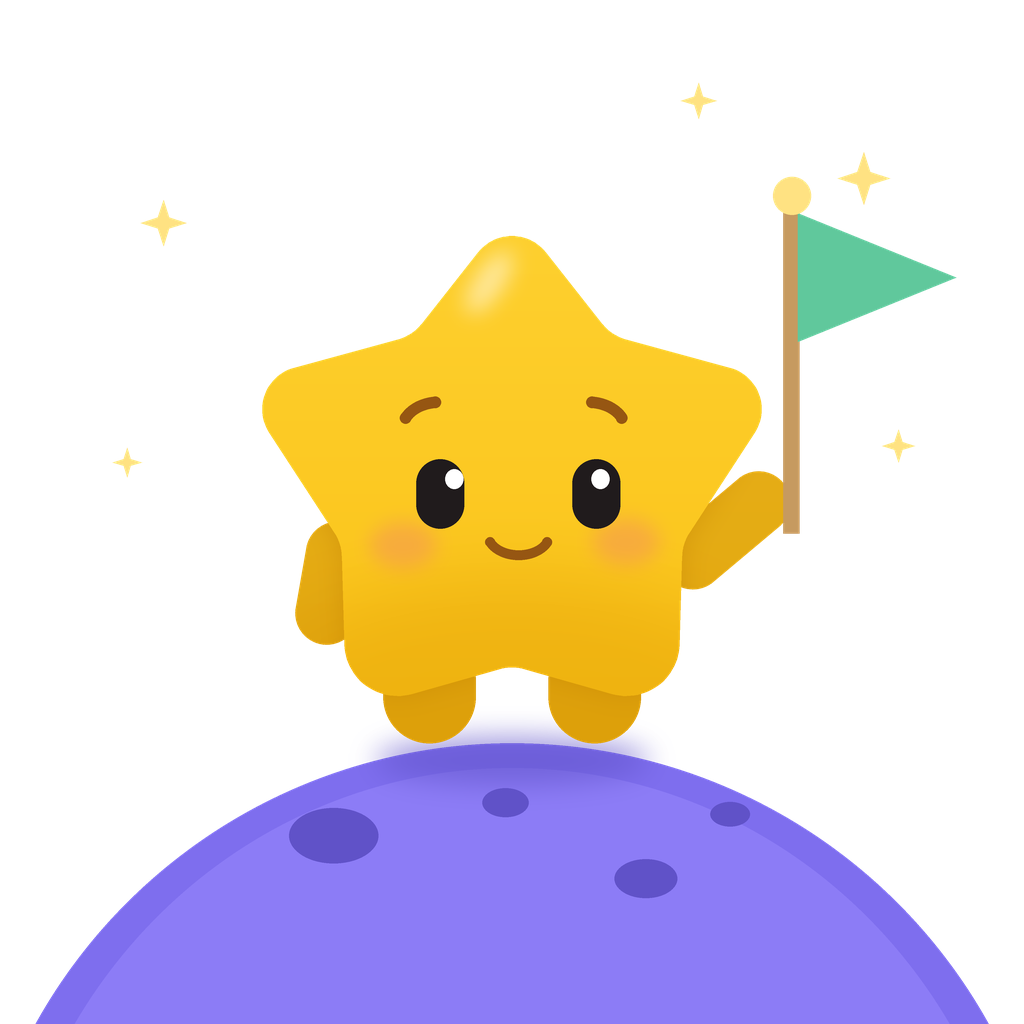
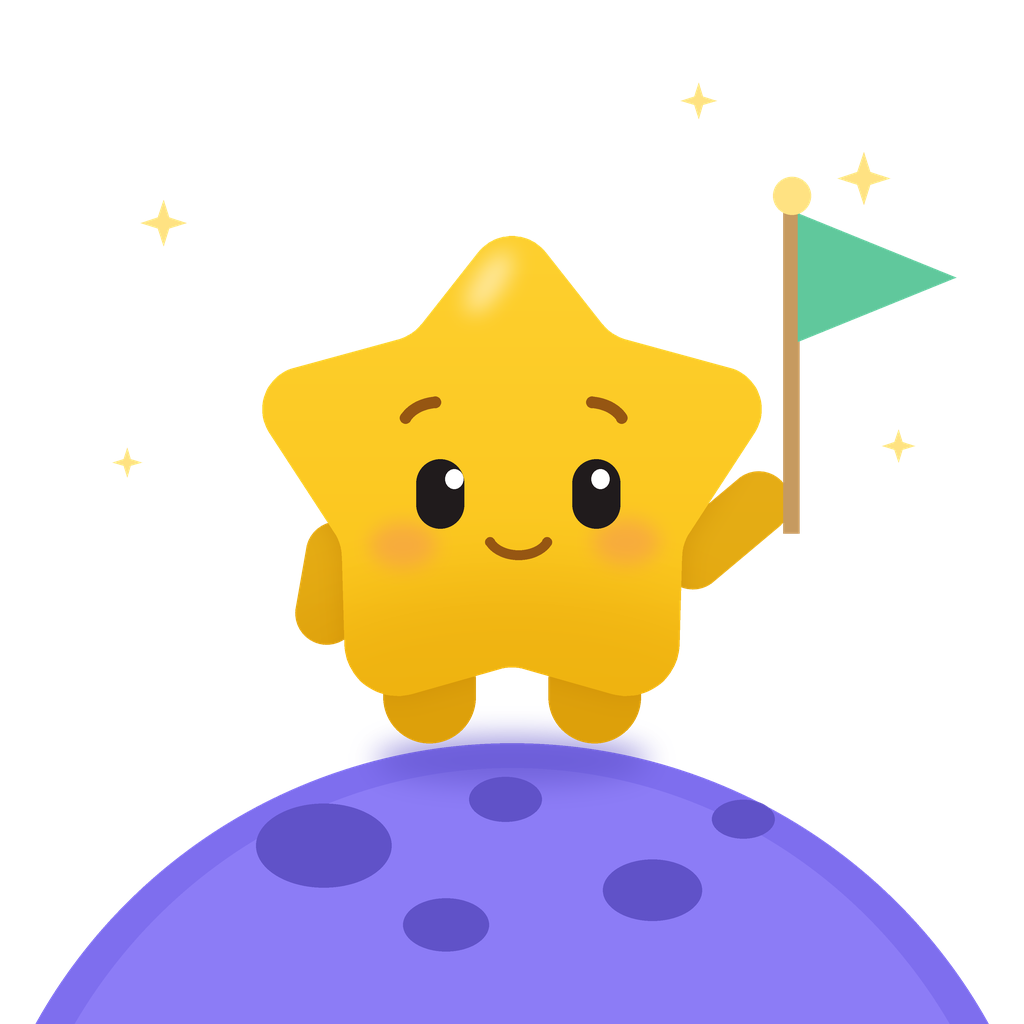
Close the gaps in the headphones, nightcap and planet
The headphone band stopped short of the cups, leaving a visible break;
it now runs from cup center to cup center. The nightcap's left edge
passed to the right of the top ray's tip, so a yellow wedge showed
behind it — the cone is straightened and its base widened. Planet
craters are larger and one more was added.

Claude-Session: https://claude.ai/code/session_015M4W5mwAC7ThVprora4HqH

diff --git a/scenes.py b/scenes.py
@@ -97,8 +97,8 @@ def planet(img):
     d.ellipse(sbox([cx - r, cy - r, cx + r, cy + r]), fill=PLANET + (255,))
     d.ellipse(sbox([cx - r + 40, cy - r + 30, cx + r - 40, cy + r]),
               fill=(140, 124, 246, 255))
-    for kx, ky, kr in ((404, 1012, 54), (782, 1064, 38), (612, 972, 28),
-                       (884, 986, 24)):
+    for kx, ky, kr in ((392, 1024, 82), (790, 1078, 60), (612, 968, 44),
+                       (900, 992, 38), (540, 1120, 52)):
         d.ellipse(sbox([kx - kr, ky - kr * 0.62, kx + kr, ky + kr * 0.62]),
                   fill=PLANET_DARK + (255,))
     img.alpha_composite(lay)
@@ -213,7 +213,7 @@ def cloud(img):
 def headphones(img):
     """Наушники: дуга через верхний луч и две чашки по бокам."""
     lay, d = layer(img)
-    d.arc(sbox([332, 218, 908, 794]), 202, 338, fill=METAL + (255,),
+    d.arc(sbox([344, 216, 896, 796]), 186, 354, fill=METAL + (255,),
           width=int(s(44)))
     for ex in (344, 896):
         d.ellipse(sbox([ex - 124, 418, ex + 124, 666]), fill=METAL + (255,))
@@ -238,11 +238,11 @@ def music_notes(img):
 def nightcap(img):
     """Колпак для сна на верхнем луче."""
     lay, d = layer(img)
-    d.polygon([*sbox([466, 416]), *sbox([776, 416]), *sbox([828, 116])],
+    d.polygon([*sbox([448, 428]), *sbox([792, 428]), *sbox([742, 122])],
               fill=ACCENT + (255,))
-    d.rounded_rectangle(sbox([450, 378, 792, 458]), radius=s(40),
+    d.rounded_rectangle(sbox([436, 388, 804, 468]), radius=s(40),
                         fill=CLOUD + (255,))
-    d.ellipse(sbox([786, 66, 884, 164]), fill=CLOUD + (255,))
+    d.ellipse(sbox([694, 62, 792, 160]), fill=CLOUD + (255,))
     img.alpha_composite(lay)
 
 
